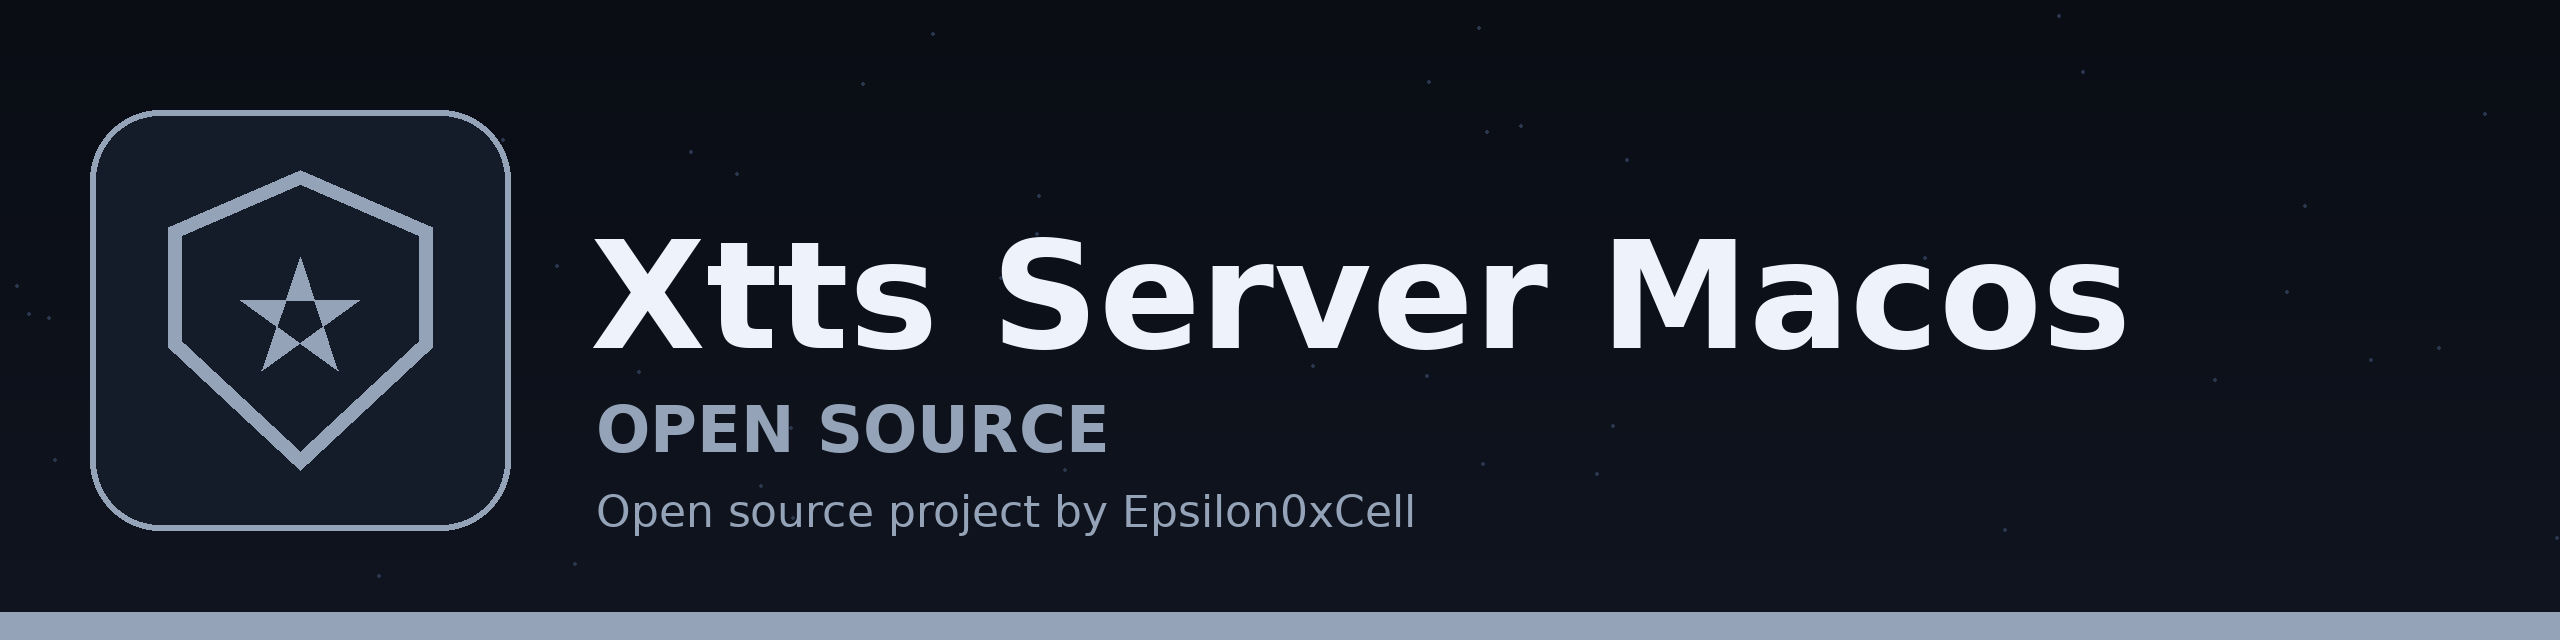
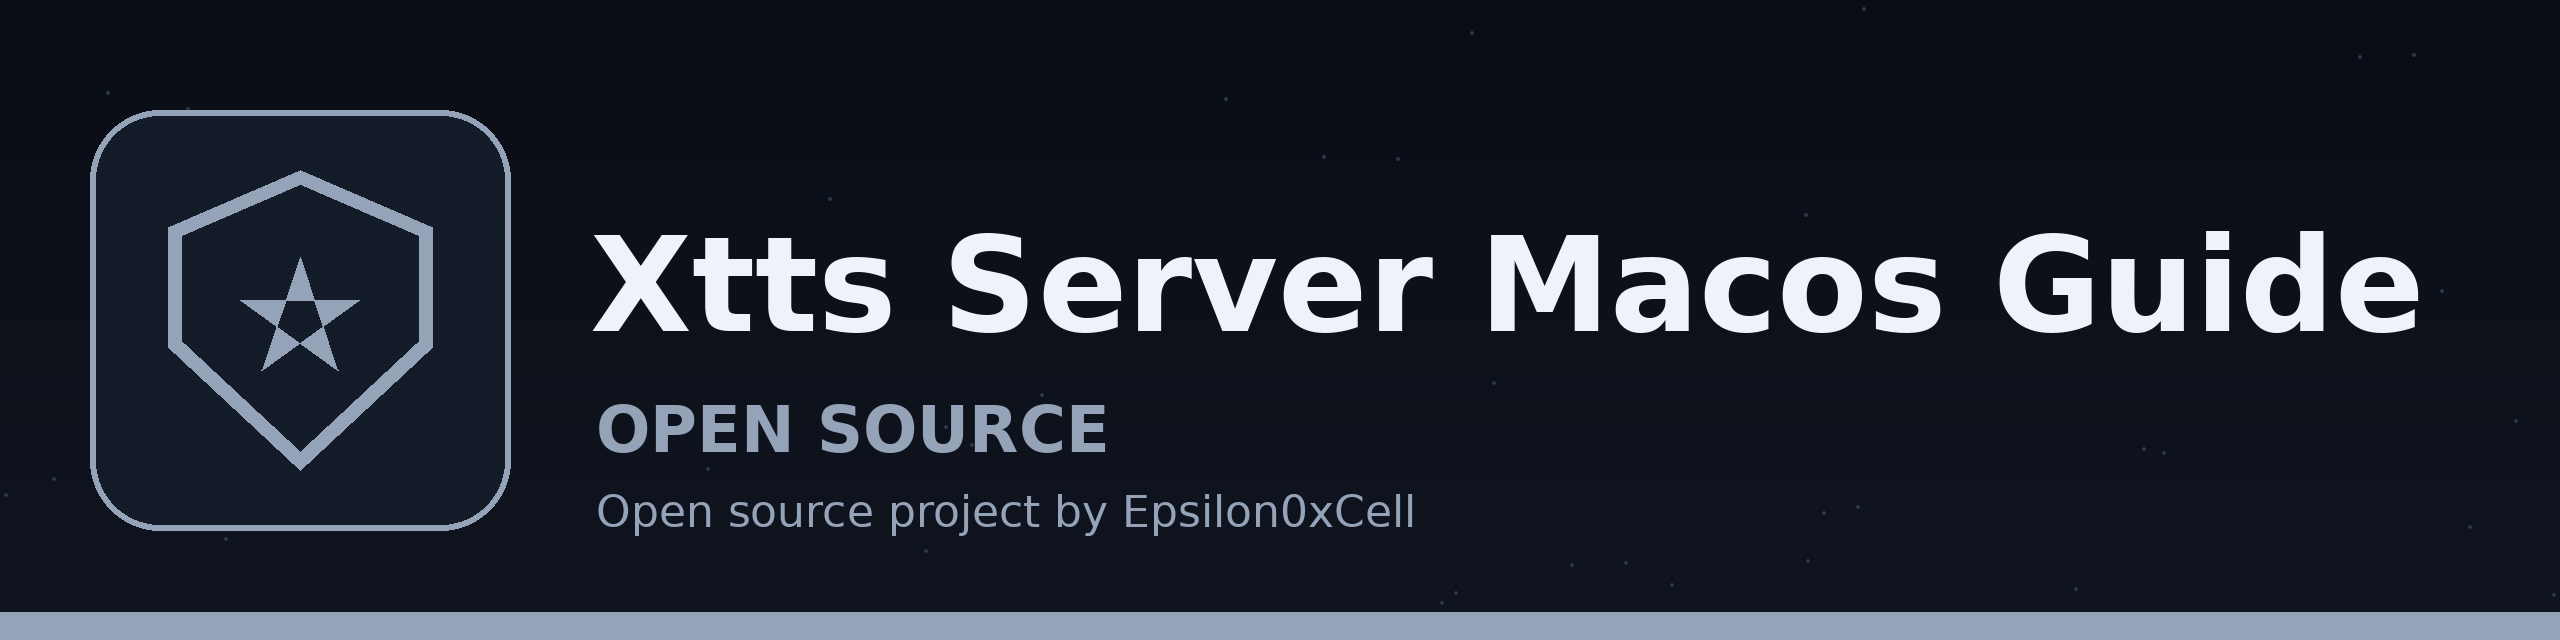
Update name to XTTS-Server-MacOS-Guide: README title and branding

Changed region(s): [[0.2188, 0.3438, 0.9688, 0.5625]]

diff --git a/README.md b/README.md
@@ -1,6 +1,6 @@
 ![Banner](banner.png)
 
-# xtts-server-macOS
+# XTTS-Server-MacOS-Guide
 Install xtts-server guide for macOS: https://github.com/daswer123/xtts-api-server && https://docs.sillytavern.app/extensions/xtts/
 
 # Chromium based browser
